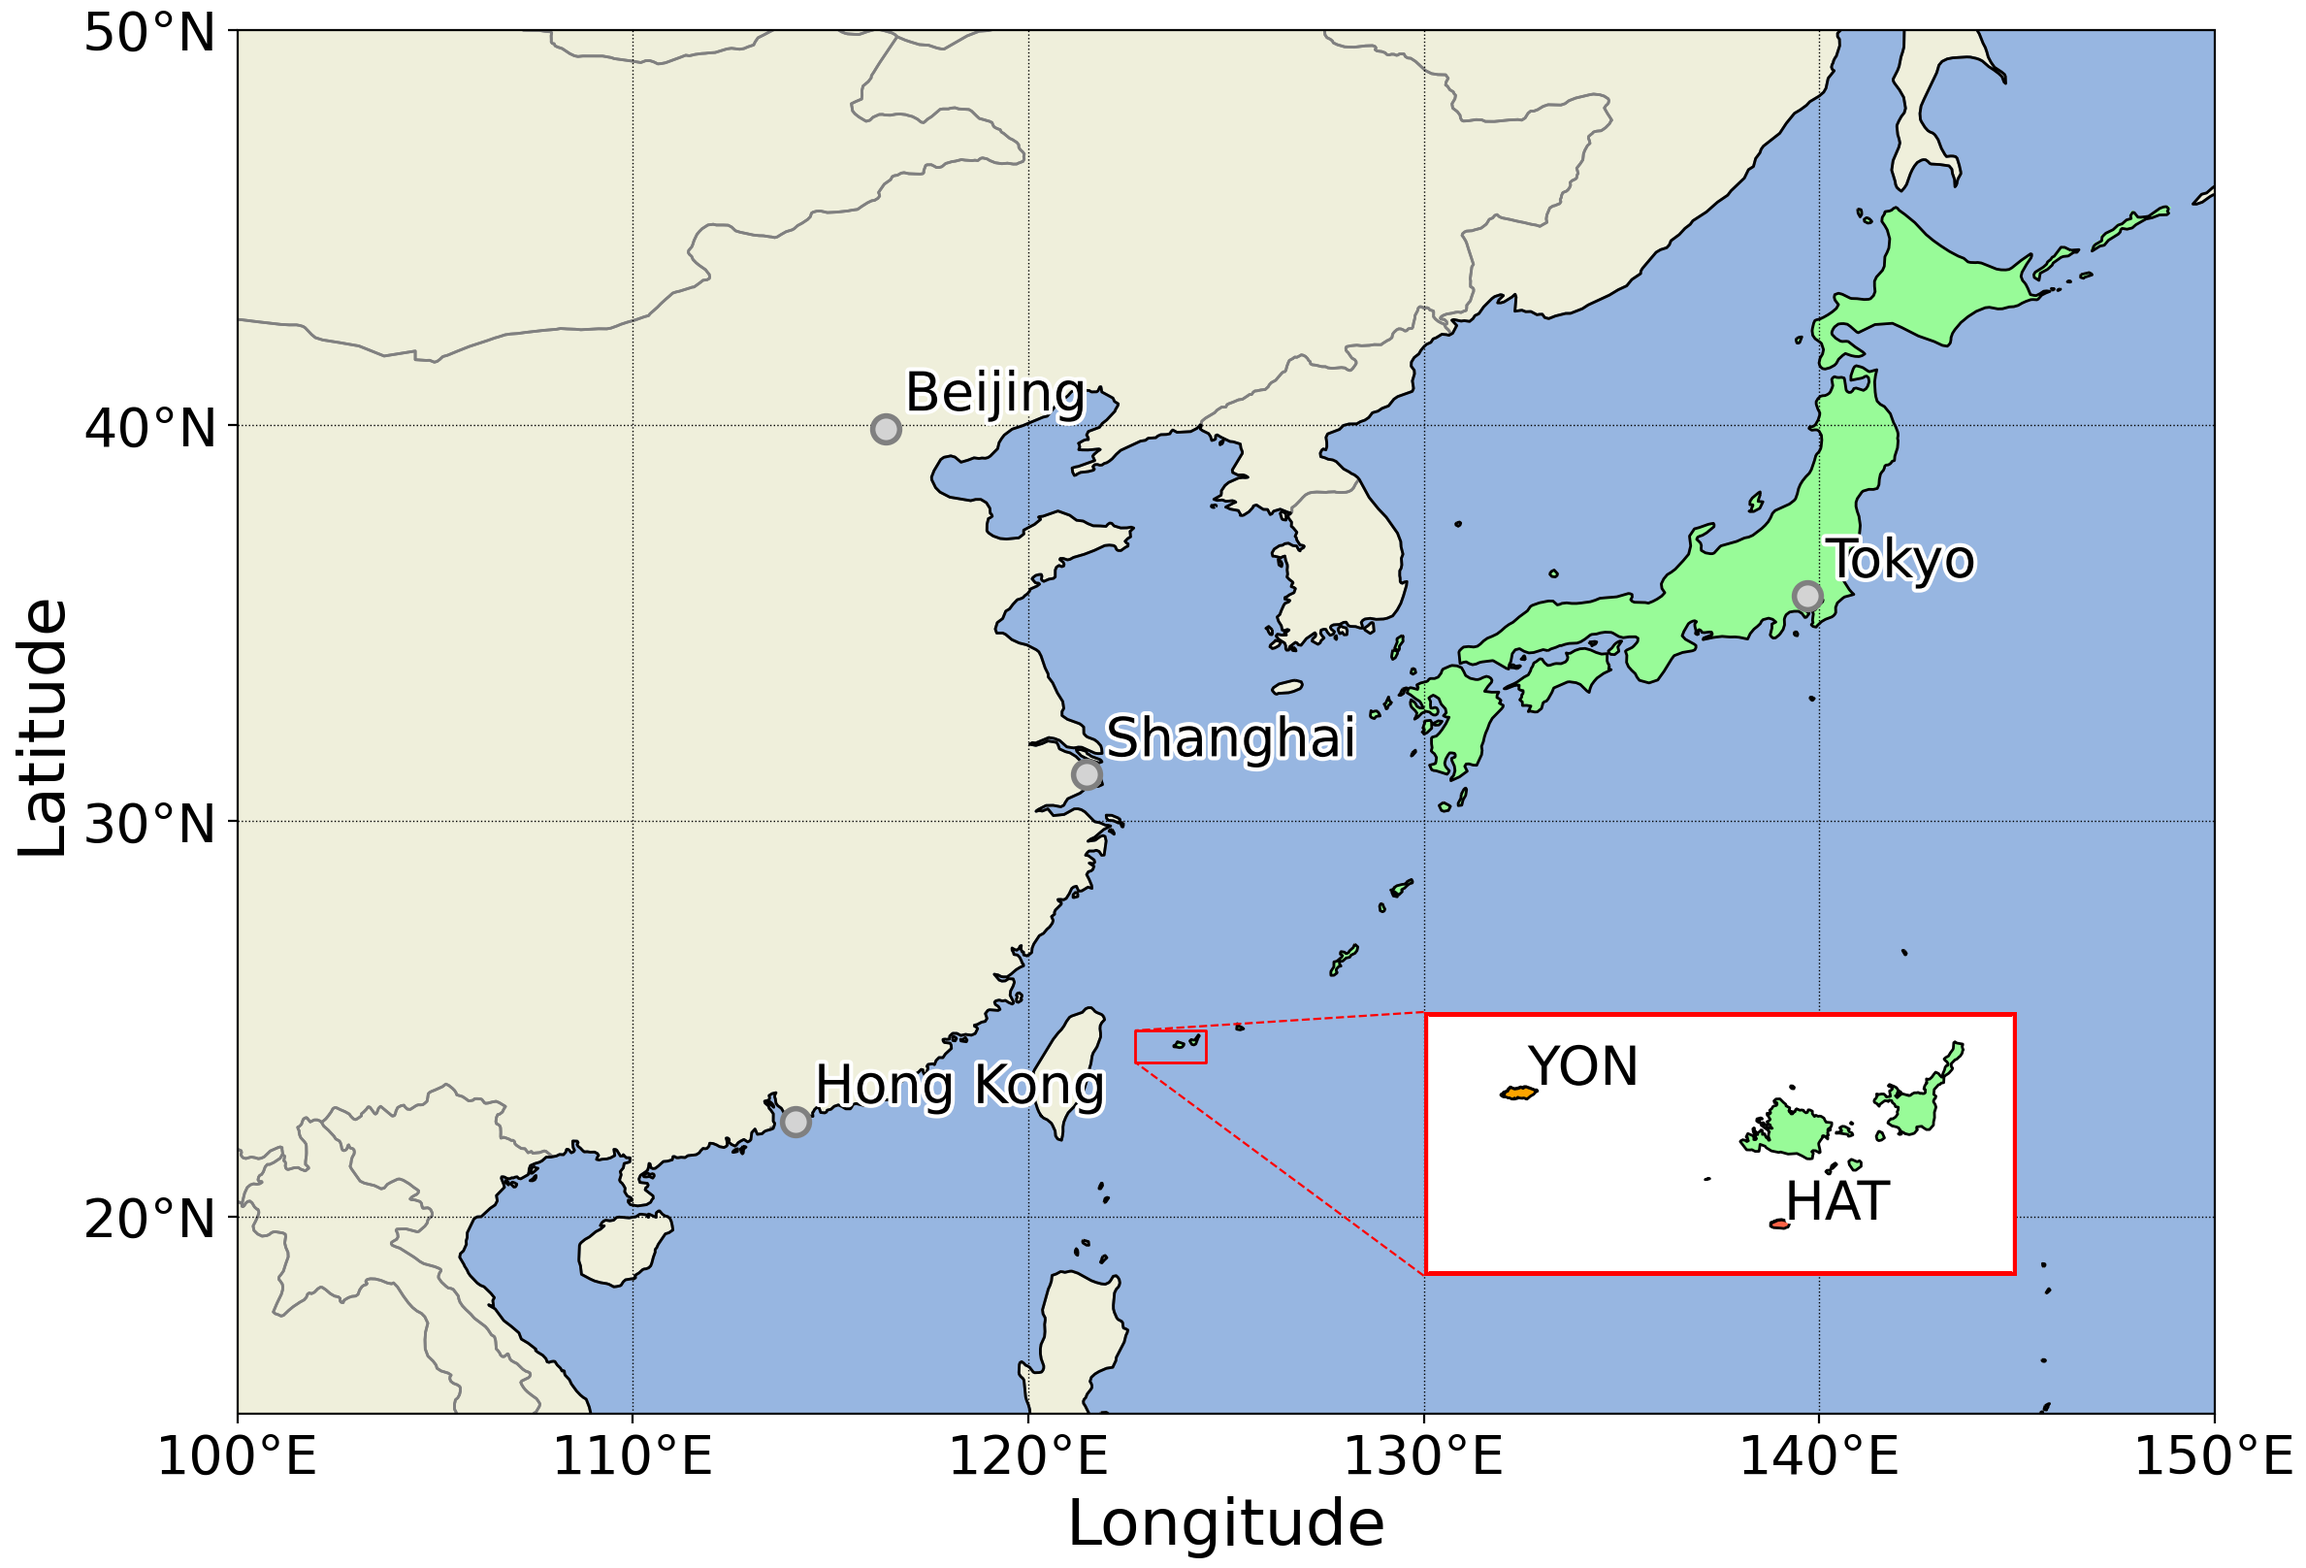
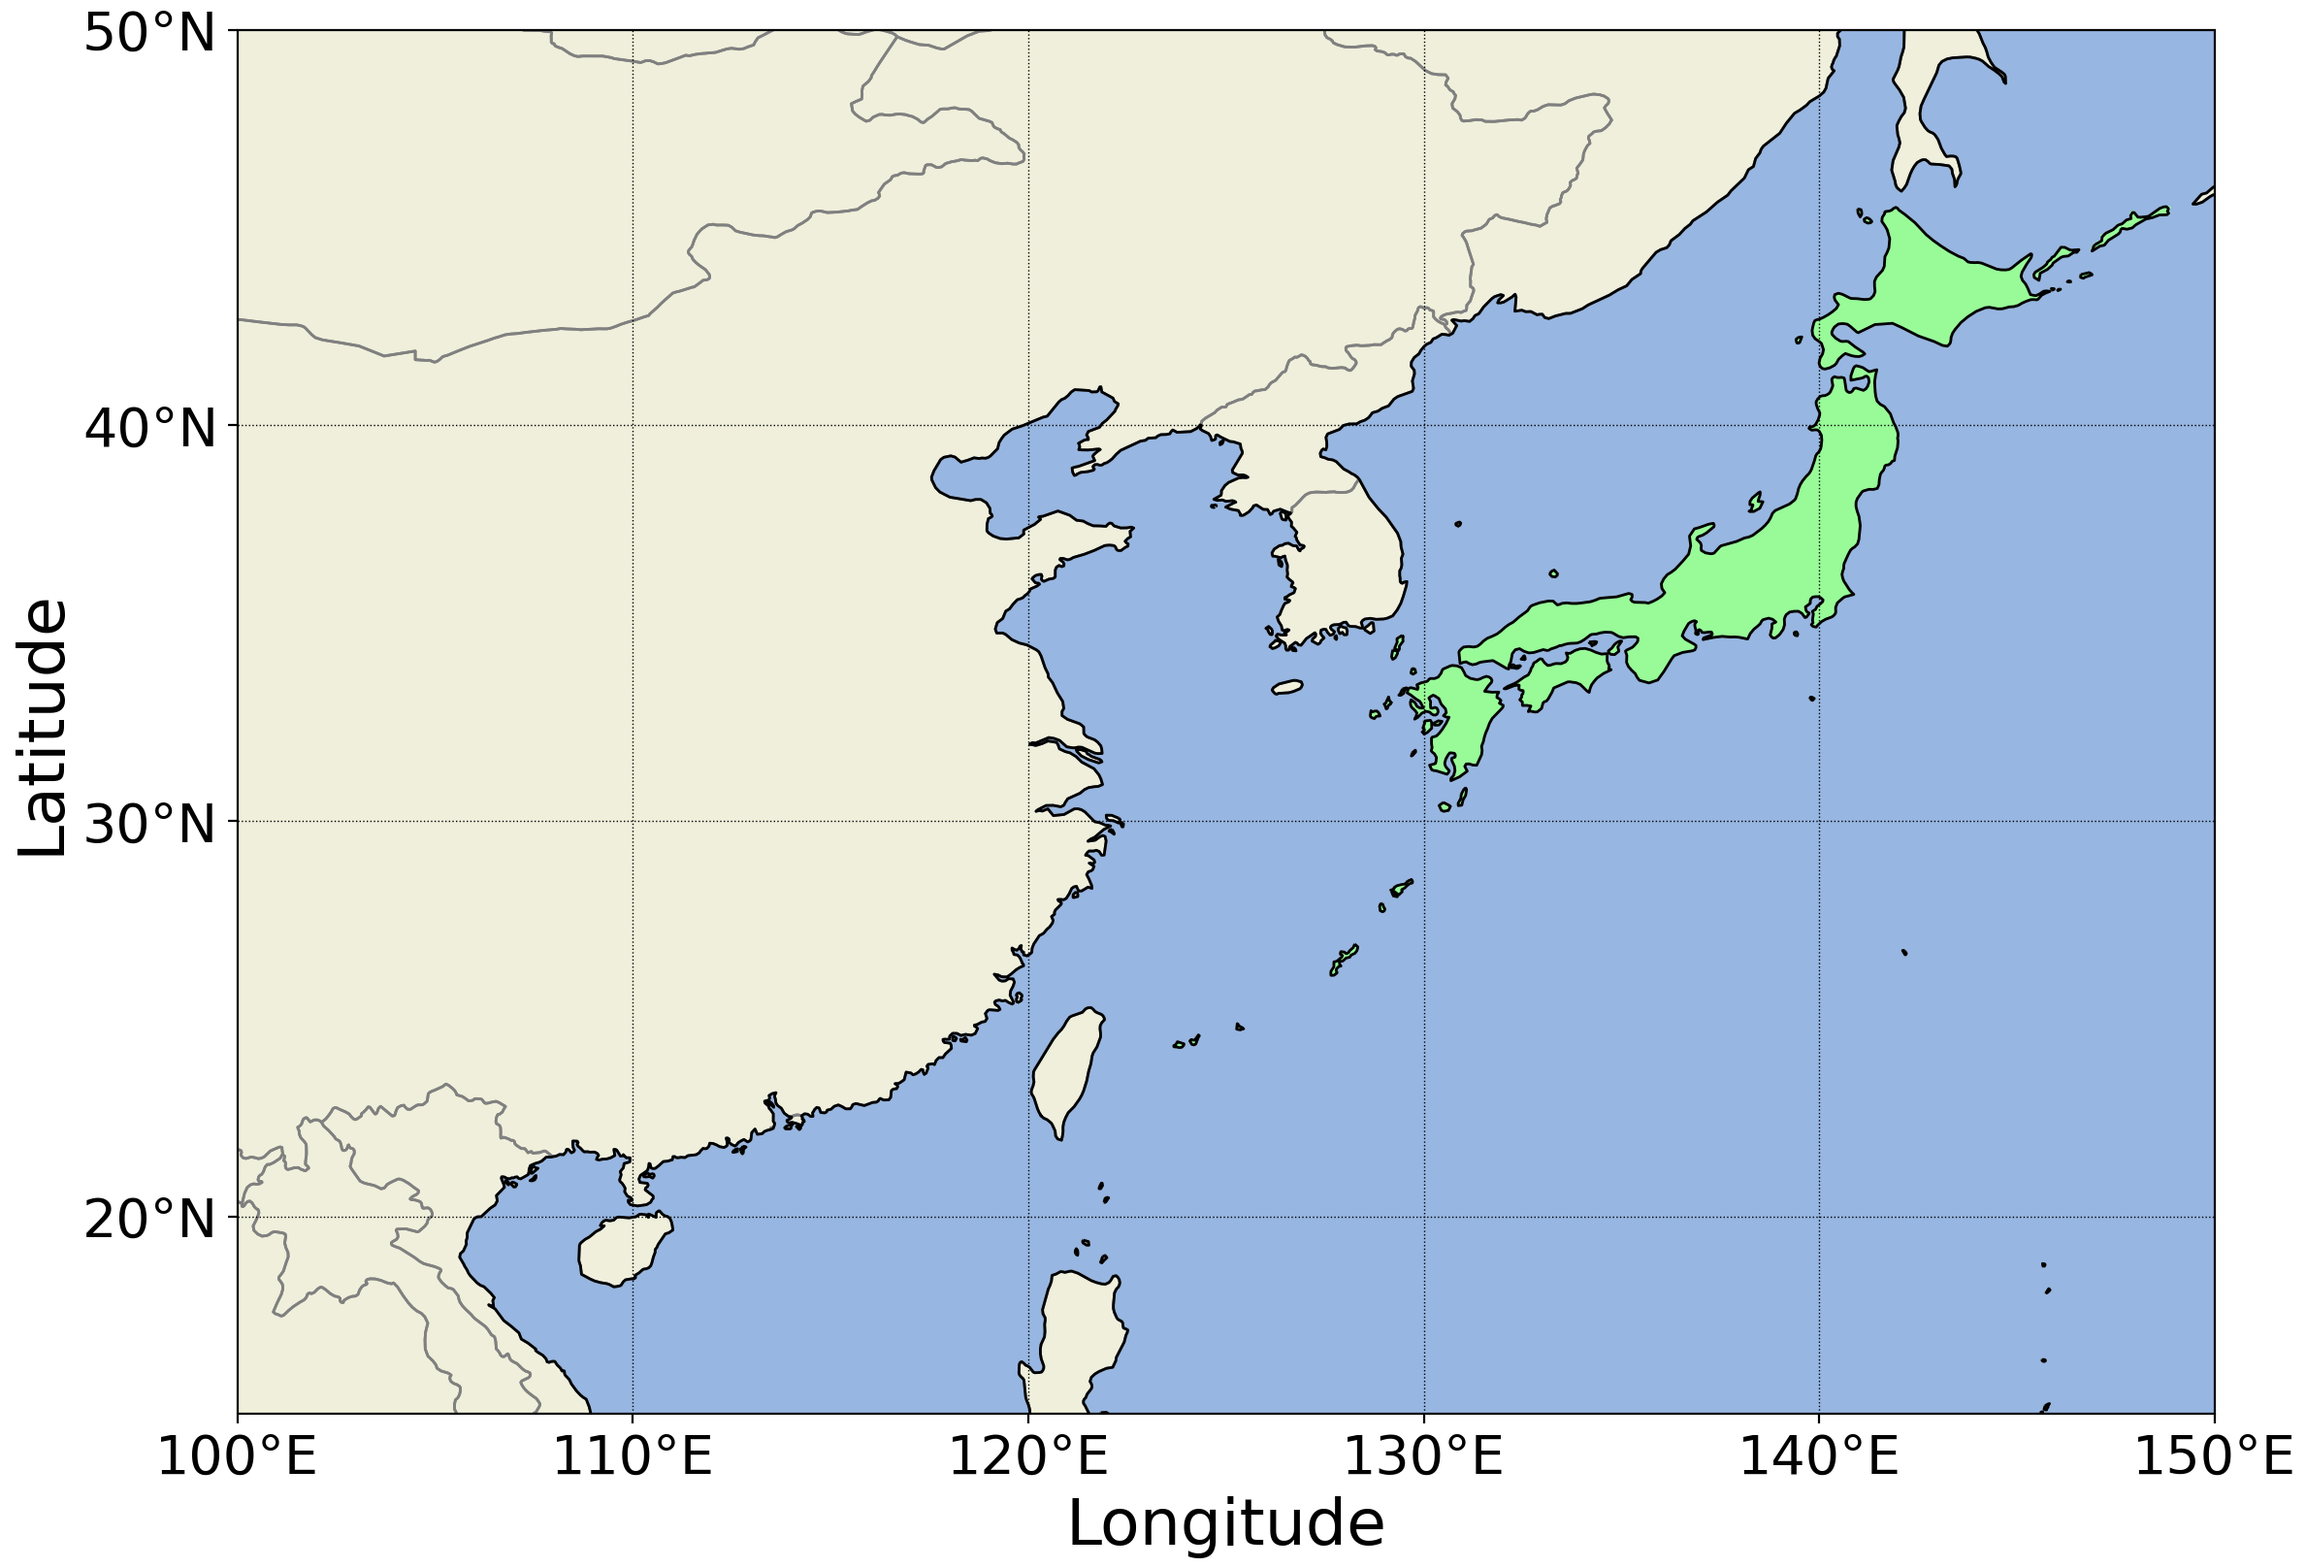
zorder を明示、サンプルをちゃんと作った

diff --git a/__sample__/example.py b/__sample__/example.py
@@ -6,8 +6,6 @@ longitude = 100, 150, 10        #? W, E, tick interval
 latitude = 15, 50, 10           #? S, N, tick interval
 resolution = '50m'              #? map resolution ...   '10m', '50m', '110m'
 
-inset_extent = 122.7, 124.5, 23.9, 24.7    #? W, E, S, N
-
 # オブジェクトを作成
 cf = cartooff()
 
@@ -17,29 +15,6 @@ colored_countries = {
     'Japan': 'palegreen',
 }
 cf.draw(longitude, latitude, resolution, colored_countries=colored_countries)
-
-# 拡大図を図中に表示
-# width:       全体図に対する縮小図の横幅の割合
-# position:    全体図左下からの相対位置（横、縦）
-# loc:         indicator の点線を出す頂点（右上から反時計回りに1, 2, 3, 4）
-cf.add_inset_map(inset_extent, width=0.3, position=[0.6, 0.1], loc=[2,3])
-
-# shape を取得して地図に描画する
-# target='inset' にすると拡大図内にプロットできる
-okinawa = cf.get_japan_shape('Okinawa')
-cf.add_shape(okinawa, target='inset', facecolor='palegreen', edgecolor='black')
-
-yonaguni = cf.get_japan_shape('Yonaguni Cho')
-cf.add_shape(yonaguni, target='inset', facecolor='orange', edgecolor='black')
-
-hateruma = cf.get_japan_shape('Taketomi Cho')
-hateruma = hateruma[-1:] #? 波照間島は竹富町のShapeの最後
-cf.add_shape(hateruma, target='inset', facecolor='tomato', edgecolor='black')
-
-# csv を読み取って図中にプロット
-# type 列に inset とすると拡大図に、map にすると外の図にプロット。
-# point 列, label 列 でそれぞれを描画するか設定できる。
-cf.plot_points('./example.csv')
 
 # 図を保存する際、show() する前に save() と保存できない
 cf.save('./example.png')

diff --git a/__sample__/example2.py b/__sample__/example2.py
@@ -1,11 +1,13 @@
 #%%
 
 from cartooff import cartooff
-import cartoy.crs as ccrs
+import cartopy.crs as ccrs
 
 longitude = 120, 150, 10        #? W, E, tick interval
 latitude = 20, 50, 10           #? S, N, tick interval
 resolution = '50m'              #? map resolution ...   '10m', '50m', '110m'
+
+inset_extent = 138.1, 141.15, 34.6, 37.3    #? W, E, S, N
 
 # 東経160度を中心としたメルカトル図法のオブジェクトを作成
 # 第一引数に cartopy.crs のクラスを渡し、第二引数以降でそのクラスの引数を設定できる
@@ -20,6 +22,21 @@ cf.draw(longitude, latitude, resolution,
         lon_label=False, lat_label=False,
         colored_countries=colored_countries)
 
+# 拡大図を図中に表示
+# width:       全体図に対する縮小図の横幅の割合
+# position:    全体図左下からの相対位置（横、縦）
+# loc:         indicator の点線を出す頂点（右上から反時計回りに1, 2, 3, 4）
+cf.add_inset_map(inset_extent, width=0.4, position=[0.5, 0.05])
+
+cf.axin.add_feature(cf.countries, zorder=1)
+# 関東地方の shape を取得
+kanto = [cf.get_japan_shape('Ibaraki'), cf.get_japan_shape('Tochigi'), cf.get_japan_shape('Gunma'), cf.get_japan_shape('Saitama'), cf.get_japan_shape('Chiba'), cf.get_japan_shape('Tokyo'), cf.get_japan_shape('Kanagawa')]
+
+for pref in kanto:
+    # 拡大図の中に shape を追加する（target='inset'）
+    cf.add_shape(pref, target='inset', facecolor='limegreen', edgecolor='dimgray')
+
+# 図を表示して保存
 cf.save('./example2.png')
 cf.show()
 # %%
